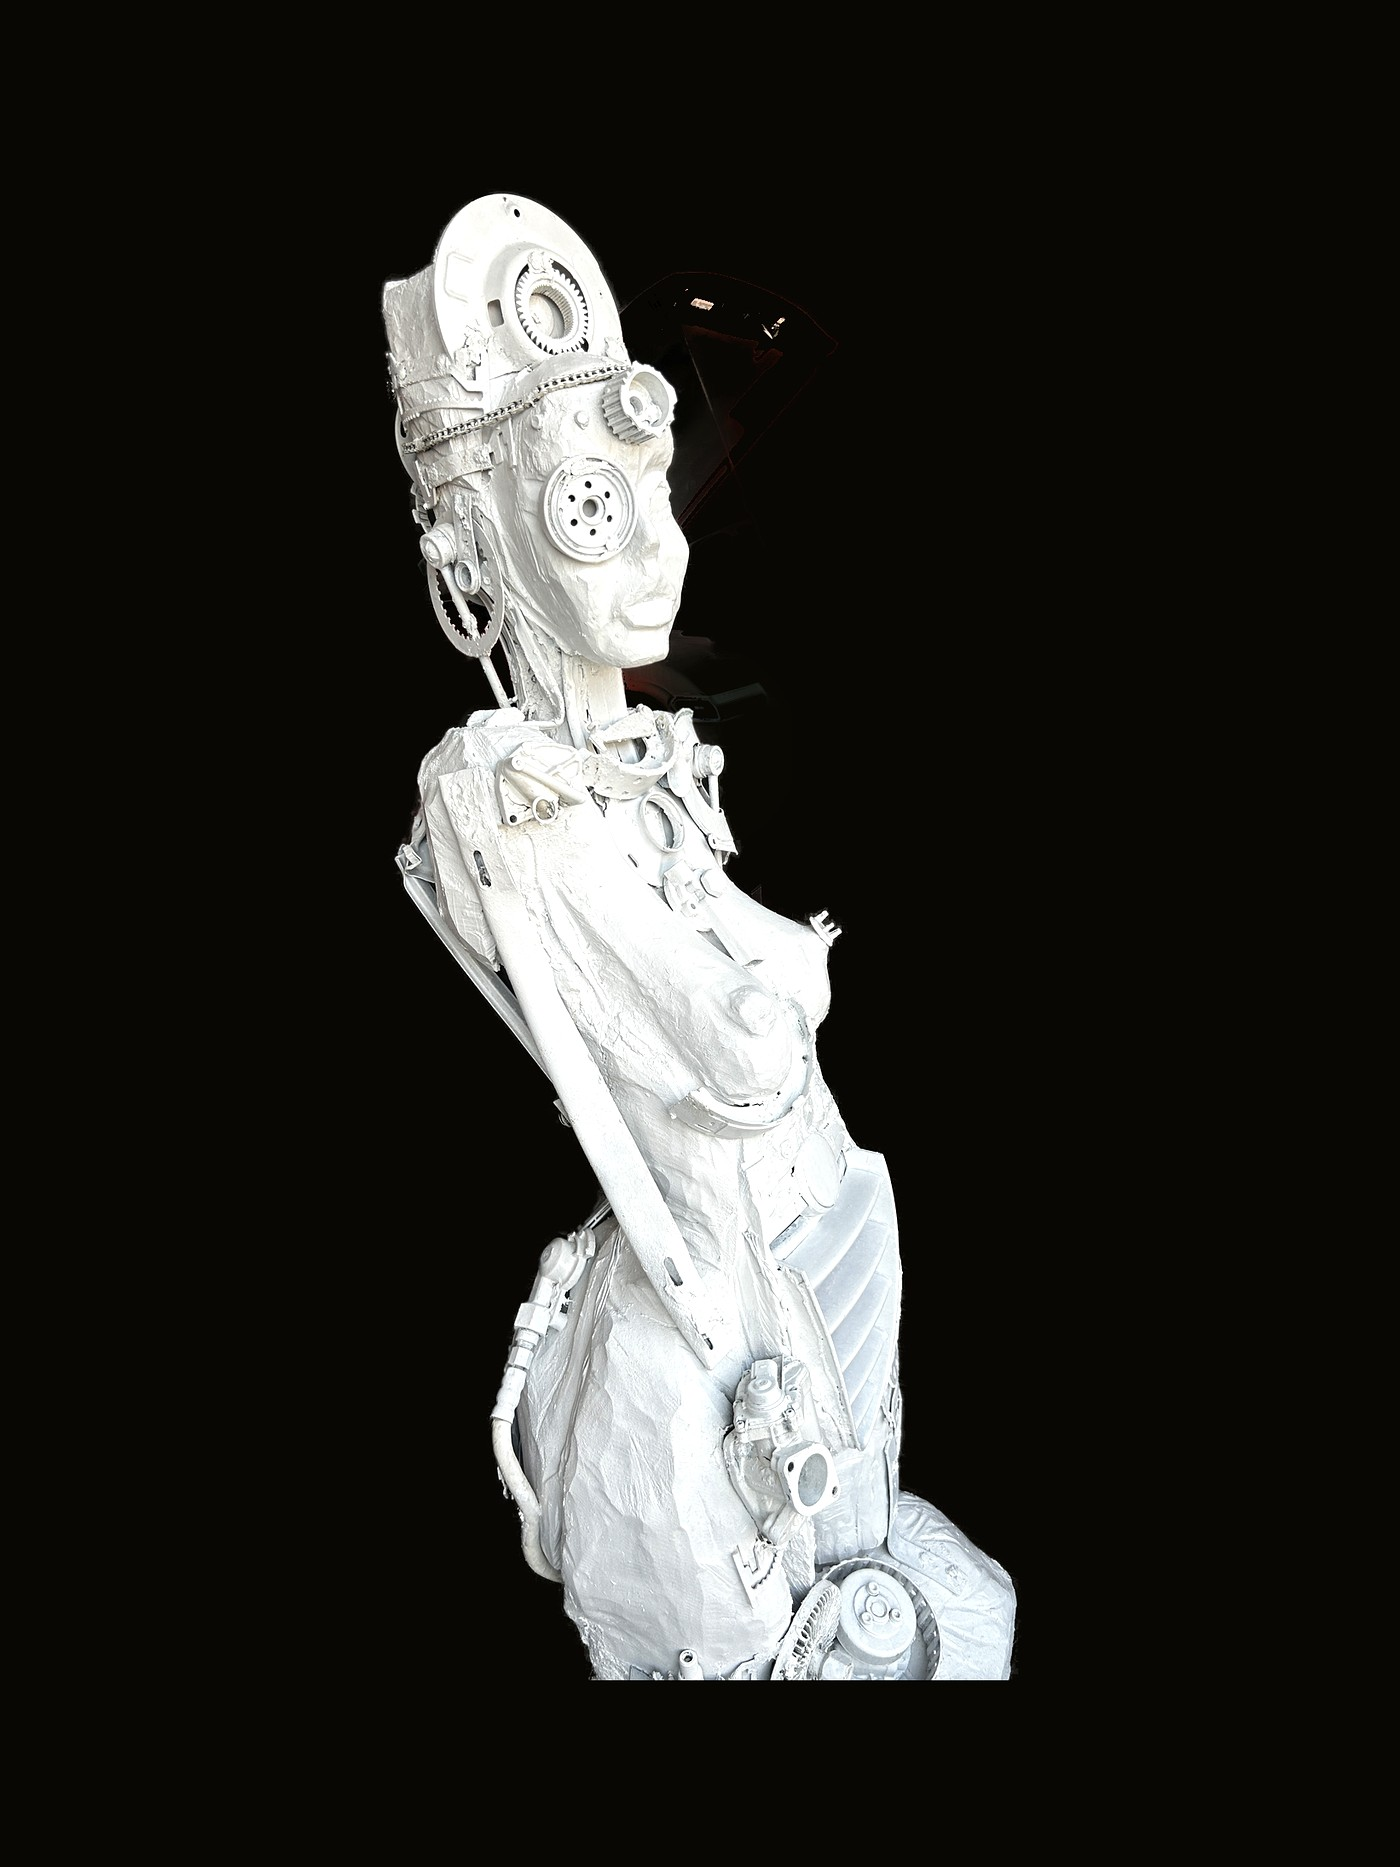
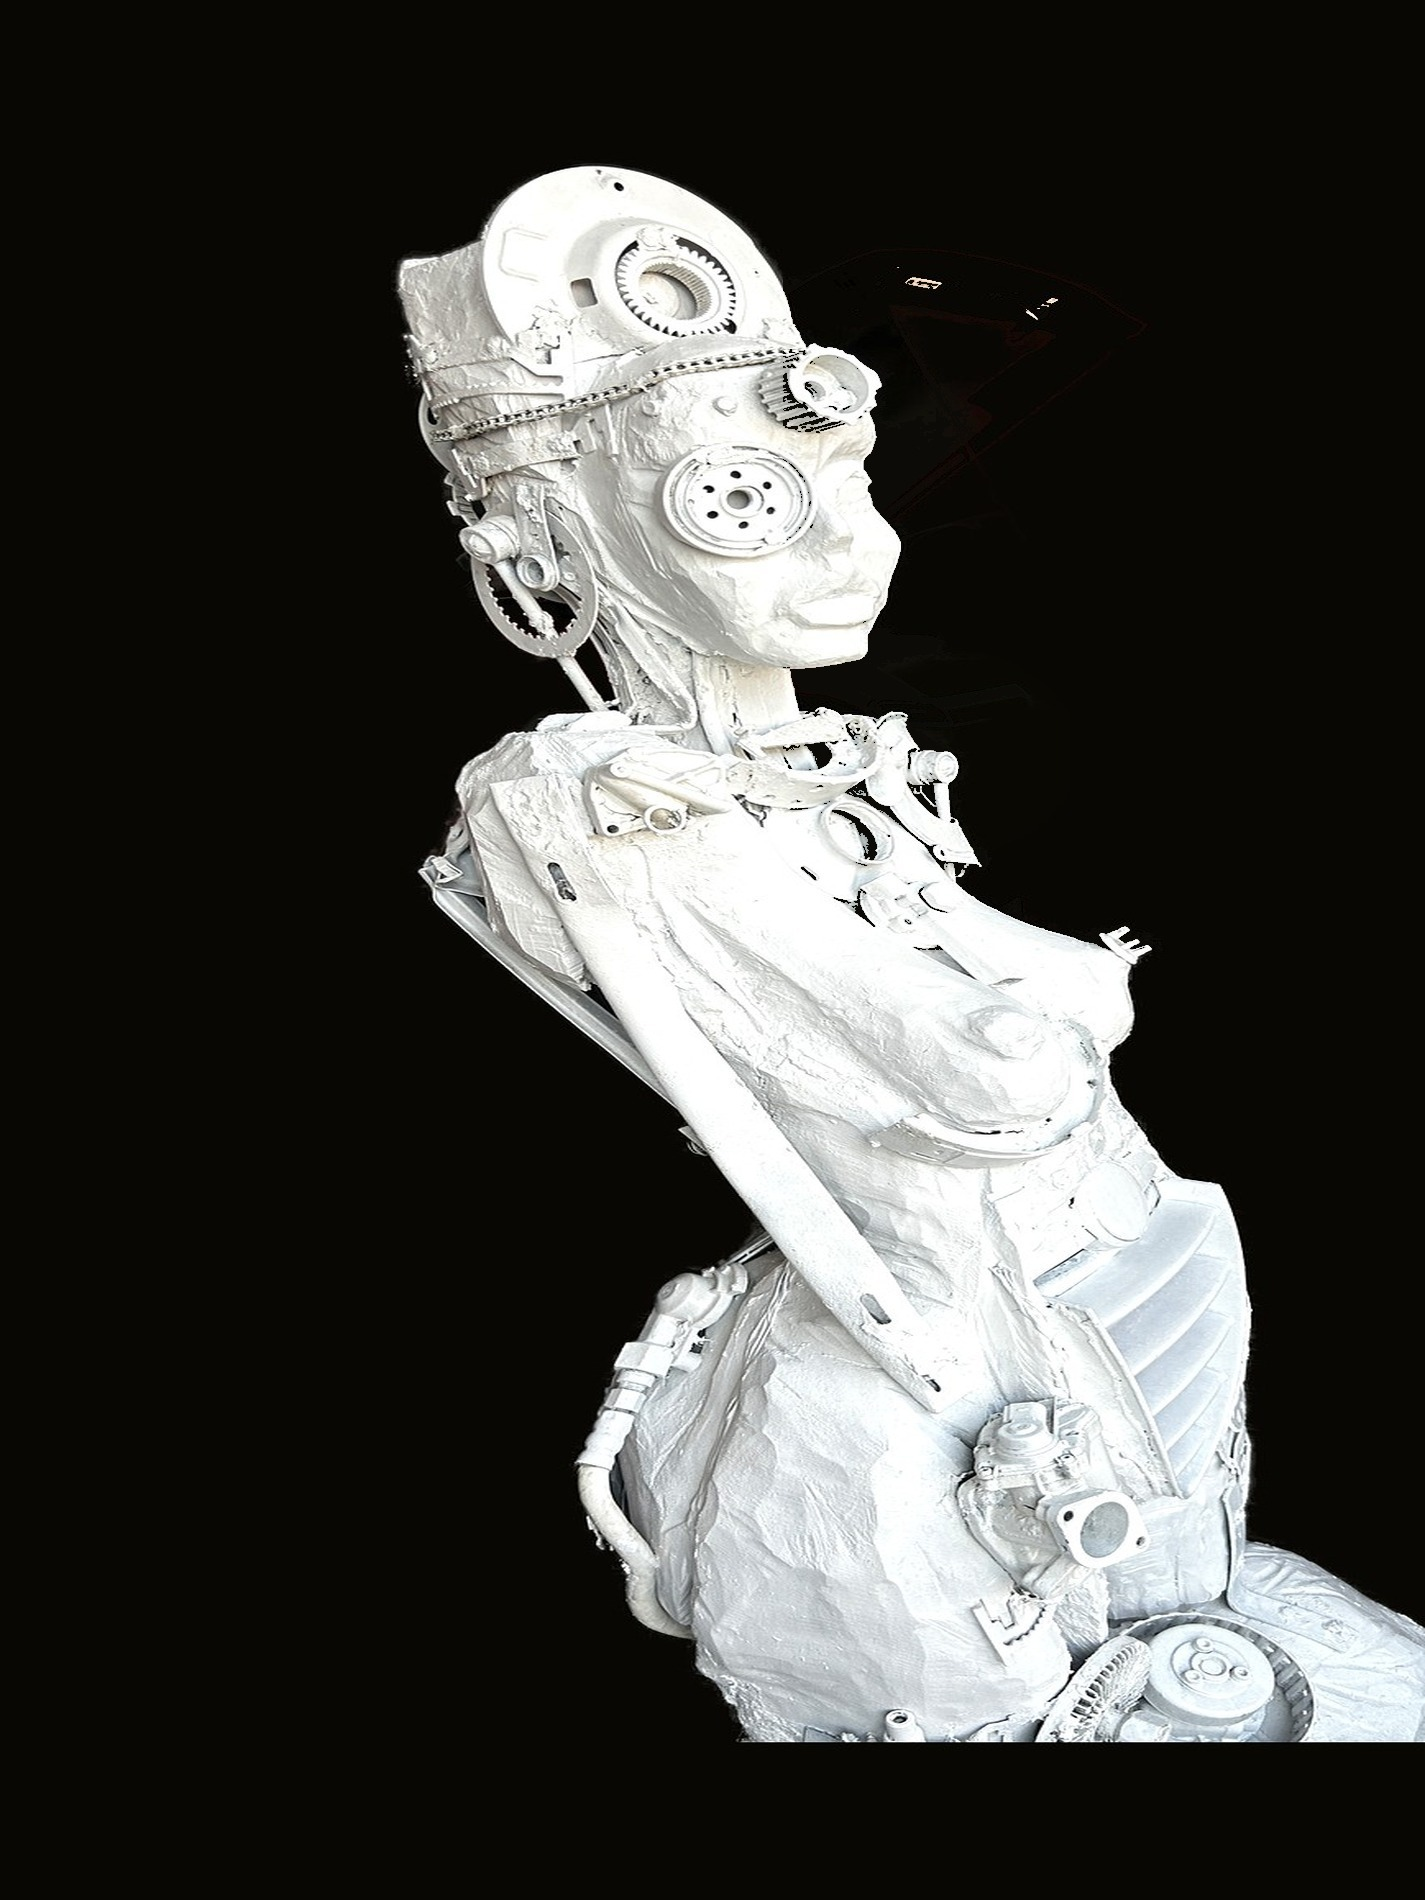
gallery: remove Aurora & Chronos (off-style bg), fix Alba zoom + Amazonka brightness, renumber to 13
- Vyřazeno: g09 Aurora (oranžové pozadí), g13 Chronos (viditelná zeď)
- g04 Alba: větší zoom + odstraněno auto v rohu
- g05 Amazonka: znovu rembg na čisté #0c0b08, brightness boost
- Renumerace: zbylé položky g09-g13

Changed region(s): [[0.2764, 0.0621, 1.0, 0.932]]

diff --git a/index.html b/index.html
@@ -346,7 +346,7 @@
             <figcaption><span class="work-no">N° 04</span> <span class="work-name">Alba</span> <span class="work-tag">Postava · bílá patina</span></figcaption>
           </figure>
           <figure class="gallery-item" data-idx="4">
-            <button type="button" aria-label="Otevřít detail — Amazonka"><img src="assets/galerie/g05_amazonka_bronz.jpg" alt="KYMERA — Amazonka, mosazná hlava s kabeláží" loading="lazy"/></button>
+            <button type="button" aria-label="Otevřít detail — Amazonka"><img src="assets/galerie/g05_amazonka_bronz.jpg" alt="KYMERA — Amazonka, mosazná hlava s kabáží" loading="lazy"/></button>
             <figcaption><span class="work-no">N° 05</span> <span class="work-name">Amazonka</span> <span class="work-tag">Hlava · mosaz</span></figcaption>
           </figure>
           <figure class="gallery-item" data-idx="5">
@@ -358,36 +358,28 @@
             <figcaption><span class="work-no">N° 07</span> <span class="work-name">Skara</span> <span class="work-tag">Celopostava · mosaz</span></figcaption>
           </figure>
           <figure class="gallery-item" data-idx="7">
-            <button type="button" aria-label="Otevřít detail — Artemis"><img src="assets/galerie/g08_artemis_detail.jpg" alt="KYMERA — Artemis, busta v profilu s detailem ornamentu" loading="lazy"/></button>
+            <button type="button" aria-label="Otevřít detail — Artemis"><img src="assets/galerie/g08_artemis_detail.jpg" alt="KYMERA — Artemis, busta v profilu s detailem" loading="lazy"/></button>
             <figcaption><span class="work-no">N° 08</span> <span class="work-name">Artemis</span> <span class="work-tag">Busta · ornament</span></figcaption>
           </figure>
           <figure class="gallery-item" data-idx="8">
-            <button type="button" aria-label="Otevřít detail — Aurora"><img src="assets/galerie/g09_aurora_bronz.jpg" alt="KYMERA — Aurora, mosazná celopostava" loading="lazy"/></button>
-            <figcaption><span class="work-no">N° 09</span> <span class="work-name">Aurora</span> <span class="work-tag">Celopostava · mosaz</span></figcaption>
+            <button type="button" aria-label="Otevřít detail — Nyx"><img src="assets/galerie/g09_nyx_polopostava.jpg" alt="KYMERA — Nyx, polopostava stříbrná" loading="lazy"/></button>
+            <figcaption><span class="work-no">N° 09</span> <span class="work-name">Nyx</span> <span class="work-tag">Polopostava · patina</span></figcaption>
           </figure>
           <figure class="gallery-item" data-idx="9">
-            <button type="button" aria-label="Otevřít detail — Nyx"><img src="assets/galerie/g10_nyx_polopostava.jpg" alt="KYMERA — Nyx, polopostava stříbrná" loading="lazy"/></button>
-            <figcaption><span class="work-no">N° 10</span> <span class="work-name">Nyx</span> <span class="work-tag">Polopostava · patina</span></figcaption>
+            <button type="button" aria-label="Otevřít detail — Obsidian"><img src="assets/galerie/g10_obsidian_bronz.jpg" alt="KYMERA — Obsidian, mosazná busta s brýlemi" loading="lazy"/></button>
+            <figcaption><span class="work-no">N° 10</span> <span class="work-name">Obsidian</span> <span class="work-tag">Busta · mosaz</span></figcaption>
           </figure>
           <figure class="gallery-item" data-idx="10">
-            <button type="button" aria-label="Otevřít detail — Obsidian"><img src="assets/galerie/g11_obsidian_bronz.jpg" alt="KYMERA — Obsidian, mosazná busta s brýlemi" loading="lazy"/></button>
-            <figcaption><span class="work-no">N° 11</span> <span class="work-name">Obsidian</span> <span class="work-tag">Busta · mosaz</span></figcaption>
+            <button type="button" aria-label="Otevřít detail — Vesta"><img src="assets/galerie/g11_vesta_detail.jpg" alt="KYMERA — Vesta, busta · detail hlavy s ornamenty" loading="lazy"/></button>
+            <figcaption><span class="work-no">N° 11</span> <span class="work-name">Vesta</span> <span class="work-tag">Busta · patina</span></figcaption>
           </figure>
           <figure class="gallery-item" data-idx="11">
-            <button type="button" aria-label="Otevřít detail — Vesta"><img src="assets/galerie/g12_vesta_detail.jpg" alt="KYMERA — Vesta, busta · detail hlavy s ornamenty" loading="lazy"/></button>
-            <figcaption><span class="work-no">N° 12</span> <span class="work-name">Vesta</span> <span class="work-tag">Busta · patina</span></figcaption>
+            <button type="button" aria-label="Otevřít detail — Helia"><img src="assets/galerie/g12_helia_celopostava.jpg" alt="KYMERA — Helia, celopostava stříbrná" loading="lazy"/></button>
+            <figcaption><span class="work-no">N° 12</span> <span class="work-name">Helia</span> <span class="work-tag">Celopostava · patina</span></figcaption>
           </figure>
           <figure class="gallery-item" data-idx="12">
-            <button type="button" aria-label="Otevřít detail — Chronos"><img src="assets/galerie/g13_chronos_bronz.jpg" alt="KYMERA — Chronos, mosazná socha v betonovém prostoru" loading="lazy"/></button>
-            <figcaption><span class="work-no">N° 13</span> <span class="work-name">Chronos</span> <span class="work-tag">Celopostava · mosaz</span></figcaption>
-          </figure>
-          <figure class="gallery-item" data-idx="13">
-            <button type="button" aria-label="Otevřít detail — Helia"><img src="assets/galerie/g14_helia_celopostava.jpg" alt="KYMERA — Helia, celopostava stříbrná" loading="lazy"/></button>
-            <figcaption><span class="work-no">N° 14</span> <span class="work-name">Helia</span> <span class="work-tag">Celopostava · patina</span></figcaption>
-          </figure>
-          <figure class="gallery-item" data-idx="14">
-            <button type="button" aria-label="Otevřít detail — Diana"><img src="assets/galerie/g15_vesta_kov.jpg" alt="KYMERA — Diana, busta close-up" loading="lazy"/></button>
-            <figcaption><span class="work-no">N° 15</span> <span class="work-name">Diana</span> <span class="work-tag">Busta · close-up</span></figcaption>
+            <button type="button" aria-label="Otevřít detail — Diana"><img src="assets/galerie/g13_vesta_kov.jpg" alt="KYMERA — Diana, busta close-up" loading="lazy"/></button>
+            <figcaption><span class="work-no">N° 13</span> <span class="work-name">Diana</span> <span class="work-tag">Busta · close-up</span></figcaption>
           </figure>
         </div>
       </div>
@@ -402,7 +394,7 @@
         <img id="lb-img" src="" alt=""/>
       </div>
       <div class="lightbox-meta" id="lb-meta">
-        <span id="lb-counter">1 / 15</span>
+        <span id="lb-counter">1 / 13</span>
       </div>
     </div>
 